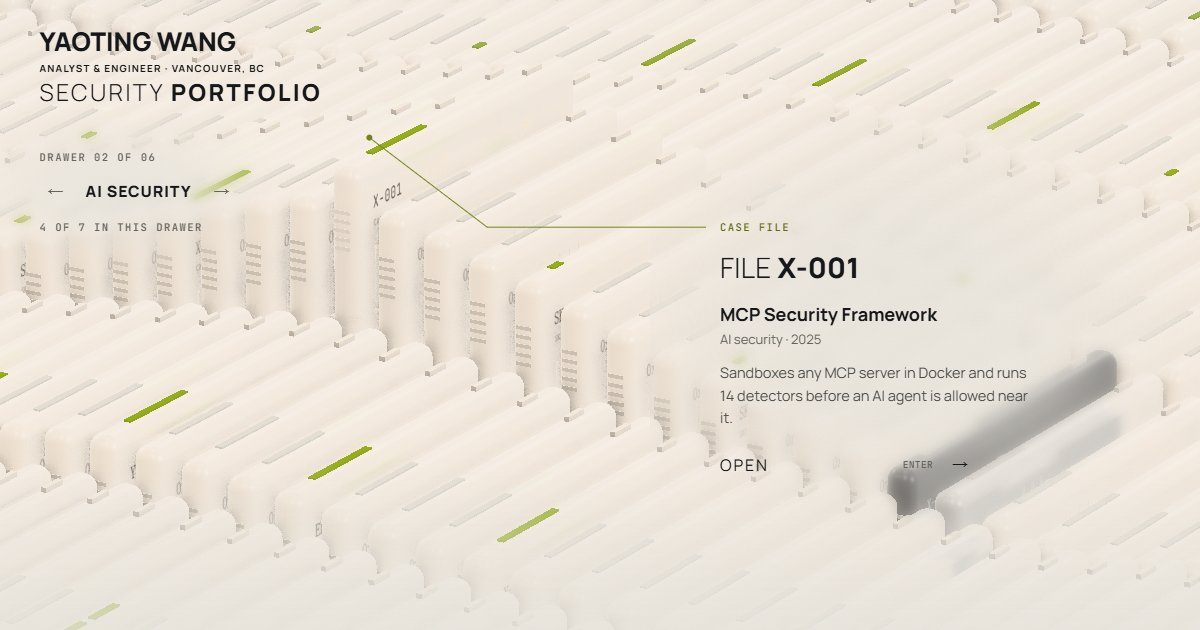
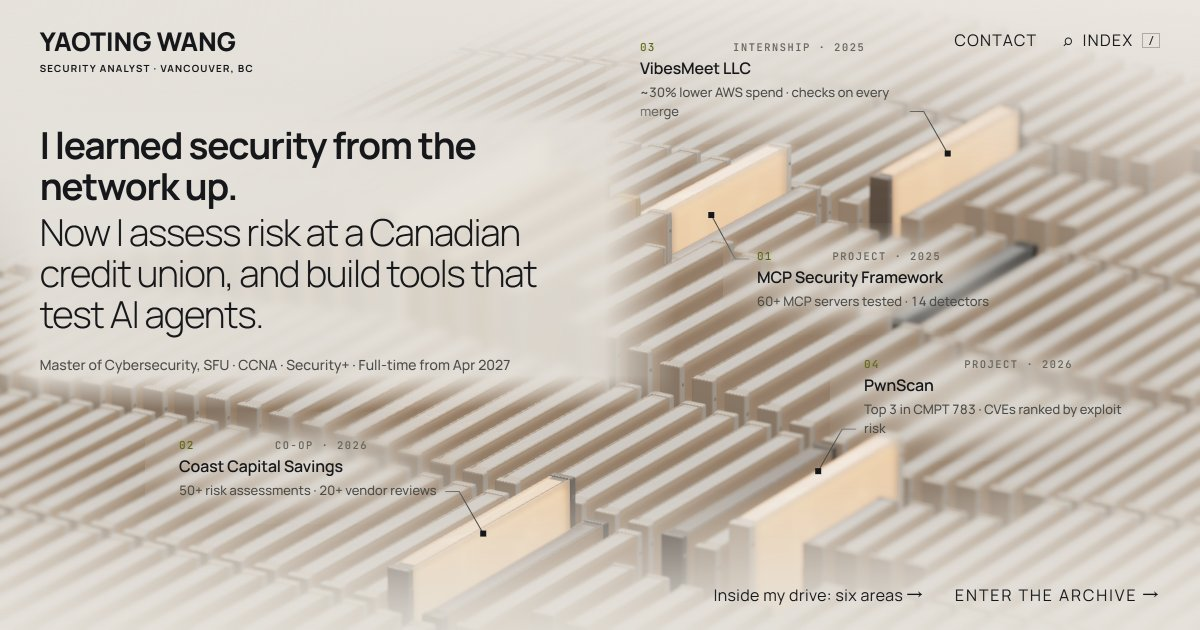
fix: serve the share cards and sitemap from yaotingw.com
The default origin is now https://yaotingw.com (an env value that points at
the old vercel.app alias is ignored), so og:url, og:image, the canonical
link, the sitemap, robots.txt and security.txt all name the real domain.
Pages get a canonical link and an og:image:alt. The dev proxy for /api points
at yaotingw.com too (the same function answers on both addresses).

New public/og-card.jpg (1200x630, 117 KB) of the current home, shot on the
GPU by scripts/og-card.mjs. The smoke test now checks the canonical, og:url,
og:image and alt of every page and the card's size.

diff --git a/vite.config.ts b/vite.config.ts
@@ -19,7 +19,7 @@ const buildDate = new Date().toISOString().slice(0, 10)
 const vercel = JSON.parse(readFileSync(new URL('./vercel.json', import.meta.url), 'utf8')) as { headers: { source: string; headers: { key: string; value: string }[] }[] }
 const siteHeaders = Object.fromEntries(vercel.headers.find((h) => h.source === '/(.*)')!.headers.filter((h) => h.key !== 'Strict-Transport-Security').map((h) => [h.key, h.value.replace('; upgrade-insecure-requests', '')]))
 // /api is a Vercel function; locally the preview forwards it to the deployed site (override with API_ORIGIN)
-const apiOrigin = process.env.API_ORIGIN || 'https://personal-profile-alpha-cyan.vercel.app'
+const apiOrigin = process.env.API_ORIGIN || 'https://yaotingw.com'
 
 export default defineConfig({
   plugins: [react()],

diff --git a/docs/casefile-spec.md b/docs/casefile-spec.md
@@ -525,7 +525,7 @@ src/casefile/
 | A1 | 读取时开启 UnrealBloomPass，1440 与 390@3x 仍 60 fps | 未验证 → 先做 spike |
 | A2 | 按抬升高度控制转向即可消除穿模 | 未验证 → 用每帧间隙检查证明 |
 | A3 | Playwright WebKit 能在这台 Windows 上跑 WebGL | 未验证 → 下载后 spike |
-| A4 | 正式域名 `personal-profile-alpha-cyan.vercel.app` | 已验证（sitemap、index.html） |
+| A4 | 正式域名 `yaotingw.com`（2026-10-06 起；之前写的是 `personal-profile-alpha-cyan.vercel.app`，那只是 Vercel 的别名） | 已验证（`curl -sI https://yaotingw.com/` 200，`Server: Vercel`；sitemap、index.html 由 `scripts/site-routes.mjs` 生成） |
 | A5 | `public/locales/` 无引用 | 已验证（grep src / scripts / index.html 无结果） |
 | A6 | 访客事实只在本地计算、不外发 | 已验证（`visitor.ts` 无网络调用） |
 
